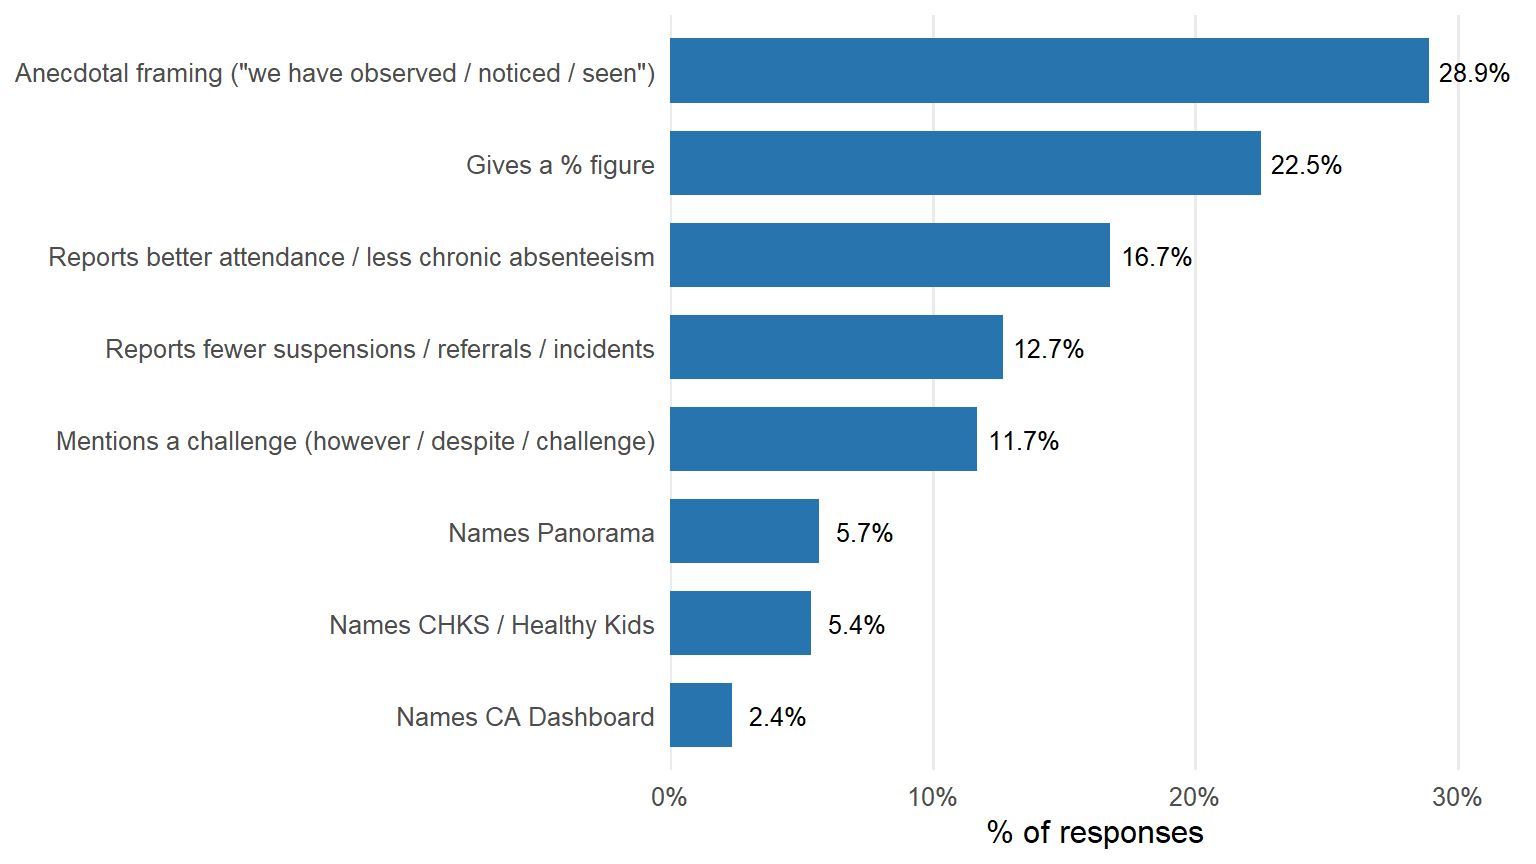
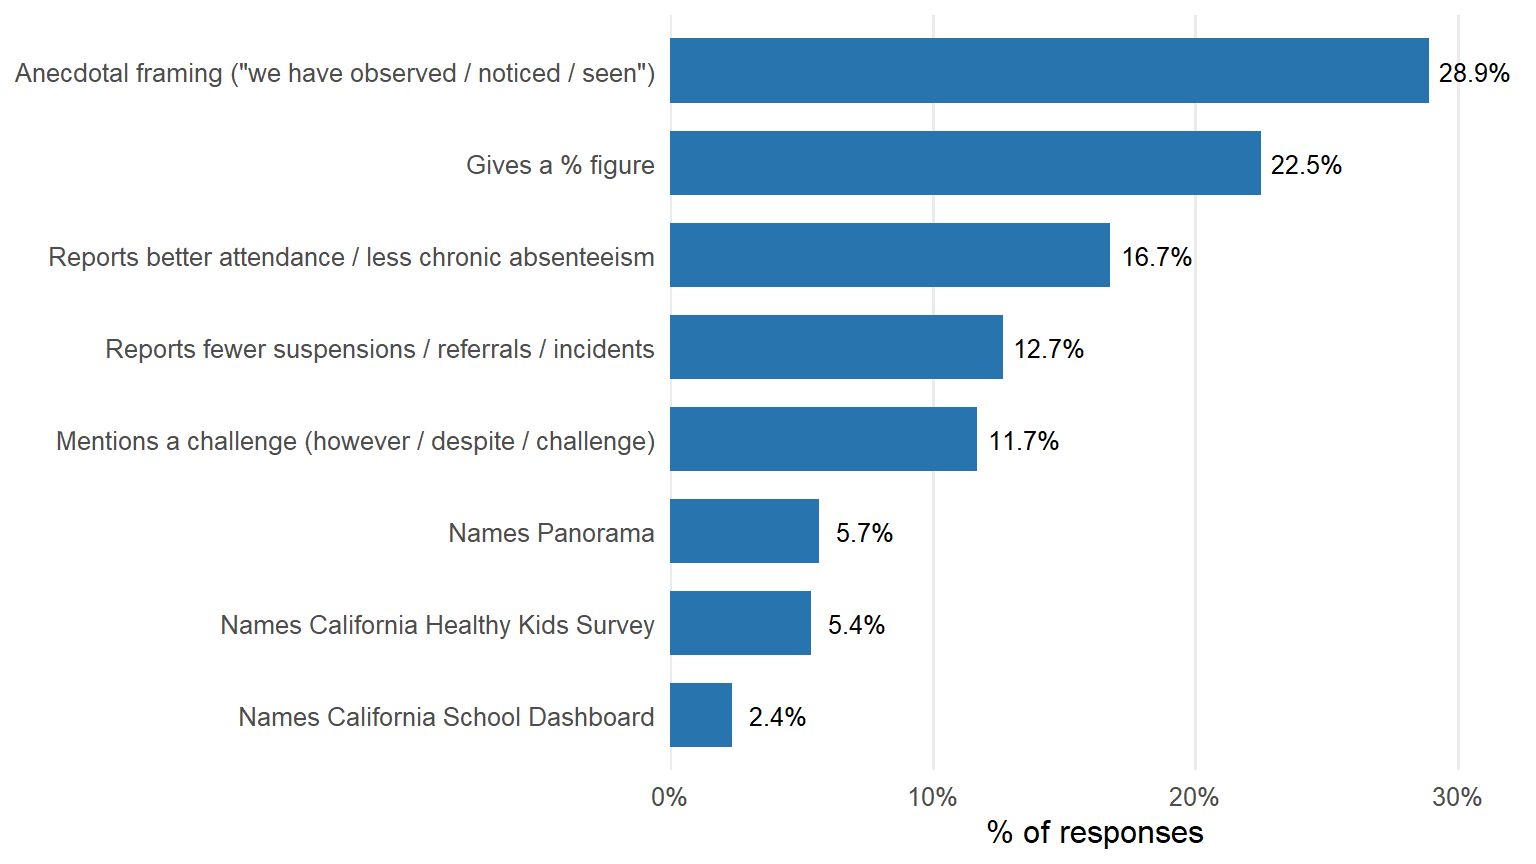
update results

Changed region(s): [[0.125, 0.6875, 0.4375, 0.75], [0.1562, 0.8125, 0.3438, 0.8438]]

diff --git a/docs/school-climate/school-climate-qual.html b/docs/school-climate/school-climate-qual.html
@@ -6,8 +6,8 @@
 
 <meta name="viewport" content="width=device-width, initial-scale=1.0, user-scalable=yes">
 
-<meta name="dcterms.date" content="2026-10-19">
-<meta name="description" content="Word frequencies, themes, and patterns in how CCSPP schools describe climate improvements (QID172).">
+<meta name="dcterms.date" content="2026-10-20">
+<meta name="description" content="Word frequencies, themes, and patterns in how CCSPP schools describe the school climate improvements they have seen.">
 
 <title>Observed Improvements in School Climate</title>
 <style>
@@ -99,6 +99,7 @@ ul.task-list li input[type="checkbox"] {
 
 
 <link rel="stylesheet" href="../styles.css">
+<link rel="stylesheet" href="styles.css">
 </head>
 
 <body class="nav-fixed quarto-light">
@@ -226,7 +227,7 @@ ul.task-list li input[type="checkbox"] {
 
 <div>
   <div class="description">
-    Word frequencies, themes, and patterns in how CCSPP schools describe climate improvements (QID172).
+    Word frequencies, themes, and patterns in how CCSPP schools describe the school climate improvements they have seen.
   </div>
 </div>
 
@@ -237,7 +238,7 @@ ul.task-list li input[type="checkbox"] {
     <div>
     <div class="quarto-title-meta-heading">Published</div>
     <div class="quarto-title-meta-contents">
-      <p class="date">October 19, 2026</p>
+      <p class="date">October 20, 2026</p>
     </div>
   </div>
   
@@ -257,8 +258,15 @@ ul.task-list li input[type="checkbox"] {
 </section>
 <section id="overview" class="level2">
 <h2 class="anchored" data-anchor-id="overview">Overview</h2>
-<p><strong><em>What improvements in school climate have you observed since the implementation of your CCSPP grant that you believe are connected to CCSPP activities? Please describe.</em></strong> <strong>(up to 300 words)</strong></p>
-<p>This page summarizes <strong>1,863 usable responses</strong> from 2,381 schools in the 2025–26 APR. Responses had a median length of 221 words.</p>
+<p>Each year, schools funded by the California Community Schools Partnership Program (CCSPP) complete an Annual Progress Report (APR). The 2025–26 report included two related questions about school climate, meaning how safe, supportive and connected a school feels to students, families and staff:</p>
+<ol type="1">
+<li><strong>The rating question.</strong> Schools rated how much they agree with the statement <em>“Our school climate has improved since we started implementing the CCSPP,”</em> from <em>Strongly disagree</em> to <em>Strongly agree</em>.</li>
+<li><strong>The follow-up question.</strong> Schools that agreed were then asked to explain in their own words, in up to 300 words:</li>
+</ol>
+<blockquote class="blockquote">
+<p><em>What improvements in school climate have you observed since the implementation of your CCSPP grant that you believe are connected to CCSPP activities? Please describe.</em></p>
+</blockquote>
+<p>This page looks at the written answers to the follow-up question. It summarizes <strong>1,863 usable responses</strong> from 2,381 schools in the 2025–26 APR. Responses had a median length of 221 words.</p>
 <div class="callout callout-style-default callout-note callout-titled">
 <div class="callout-header d-flex align-content-center">
 <div class="callout-icon-container">
@@ -269,15 +277,15 @@ ul.task-list li input[type="checkbox"] {
 </div>
 </div>
 <div class="callout-body-container callout-body">
-<p>This question was shown only to schools that answered <strong>Strongly agree</strong> or <strong>Somewhat agree</strong> to <em>“Our school climate has improved”</em>. The 484 schools that were neutral or disagreed did not see the question, so these results describe how schools that saw improvement explain it. They cannot tell us why some schools did not.</p>
+<p>Only schools that chose <strong>Strongly agree</strong> or <strong>Somewhat agree</strong> on the rating question were asked the follow-up question. The 484 schools that were neutral or disagreed did not see the question, so these results describe how schools that saw improvement explain it. They cannot tell us why some schools did not.</p>
 </div>
 </div>
 <section id="key-takeaways" class="level3">
 <h3 class="anchored" data-anchor-id="key-takeaways">Key takeaways</h3>
 <ul>
 <li><strong>Schools mostly describe climate as relationships.</strong> Family engagement (83%), belonging (77%) and student–staff relationships (68%) are the most common themes.</li>
-<li><strong>SEL and mental health supports are the main mechanism named.</strong> “Social emotional” appears in 35% of responses, “mental health” in 21% and “restorative practices” in 16%.</li>
-<li><strong>Few responses give measurable evidence.</strong> Only 22% include a percentage. Named data sources are rare: CHKS 5%, Panorama 6%, CA Dashboard 2%.</li>
+<li><strong>Social-emotional learning (SEL) and mental health supports are the changes schools credit most often.</strong> “Social emotional” appears in 35% of responses, “mental health” in 21% and “restorative practices” in 16%.</li>
+<li><strong>Few responses give measurable evidence.</strong> Only 22% include a percentage, and fewer still name a specific source of data: the California Healthy Kids Survey (5%), Panorama student surveys (6%) or the California School Dashboard (2%).</li>
 <li><strong>Student voice is the least-mentioned theme</strong> (23%), even though it is central to the community schools framework.</li>
 </ul>
 </section>
@@ -291,13 +299,13 @@ ul.task-list li input[type="checkbox"] {
 <div id="tabset-1-1" class="tab-pane active" role="tabpanel" aria-labelledby="tabset-1-1-tab">
 <div class="cell">
 <div class="cell-output-display">
-<div id="fig-wordcloud" class="quarto-float quarto-figure quarto-figure-center anchored" alt="Word cloud of QID172 responses. The largest words are student, family, support, staff, engagement, opportunity, positive, and relationship.">
+<div id="fig-wordcloud" class="quarto-float quarto-figure quarto-figure-center anchored" alt="Word cloud of schools' written responses about climate improvements. The largest words are student, family, support, staff, engagement, opportunity, positive, and relationship.">
 <figure class="quarto-float quarto-float-fig figure">
 <div aria-describedby="fig-wordcloud-caption-0ceaefa1-69ba-4598-a22c-09a6ac19f8ca">
-<img src="school-climate-qual_files/figure-html/fig-wordcloud-1.png" class="img-fluid figure-img" alt="Word cloud of QID172 responses. The largest words are student, family, support, staff, engagement, opportunity, positive, and relationship." width="768">
+<img src="school-climate-qual_files/figure-html/fig-wordcloud-1.png" class="img-fluid figure-img" alt="Word cloud of schools' written responses about climate improvements. The largest words are student, family, support, staff, engagement, opportunity, positive, and relationship." width="768">
 </div>
 <figcaption class="quarto-float-caption-bottom quarto-float-caption quarto-float-fig" id="fig-wordcloud-caption-0ceaefa1-69ba-4598-a22c-09a6ac19f8ca">
-Figure&nbsp;1: Most frequent words in QID172 responses (size = number of mentions).
+Figure&nbsp;1: Most frequent words in schools’ written responses (larger words were used more often).
 </figcaption>
 </figure>
 </div>
@@ -313,7 +321,7 @@ Figure&nbsp;1: Most frequent words in QID172 responses (size = number of mention
 <img src="school-climate-qual_files/figure-html/fig-bigramcloud-1.png" class="img-fluid figure-img" alt="Word cloud of two-word phrases. The largest are family engagement, social emotional, student engagement, and mental health." width="768">
 </div>
 <figcaption class="quarto-float-caption-bottom quarto-float-caption quarto-float-fig" id="fig-bigramcloud-caption-0ceaefa1-69ba-4598-a22c-09a6ac19f8ca">
-Figure&nbsp;2: Most frequent two-word phrases in QID172 responses.
+Figure&nbsp;2: Most frequent two-word phrases in schools’ written responses.
 </figcaption>
 </figure>
 </div>
@@ -406,7 +414,7 @@ Figure&nbsp;4: Share of responses mentioning each theme.
 <div id="tbl-agree" class="cell quarto-float quarto-figure quarto-figure-center anchored">
 <figure class="quarto-float quarto-float-tbl figure">
 <figcaption class="quarto-float-caption-top quarto-float-caption quarto-float-tbl" id="tbl-agree-caption-0ceaefa1-69ba-4598-a22c-09a6ac19f8ca">
-Table&nbsp;3: Theme prevalence by level of agreement on QID171.
+Table&nbsp;3: How often each theme comes up, by how strongly schools agreed that climate improved.
 </figcaption>
 <div aria-describedby="tbl-agree-caption-0ceaefa1-69ba-4598-a22c-09a6ac19f8ca">
 <div class="cell-output-display">
@@ -520,12 +528,12 @@ Table&nbsp;3: Theme prevalence by level of agreement on QID171.
 </section>
 <section id="by-cohort" class="level3">
 <h3 class="anchored" data-anchor-id="by-cohort">By cohort</h3>
-<p>Answering QID172 depended on agreeing that climate improved, so the share of each cohort that answered varies a lot: 85% of Cohort 1 schools, compared with 55% of Cohort 4 schools, where many schools were neutral. Among schools that answered, Cohort 1 schools were the most likely to strongly agree (56%, compared with 26% in Cohort 4).</p>
+<p>Only schools that agreed climate improved were asked to explain, so the share of each cohort that answered varies a lot: 85% of Cohort 1 schools, compared with 55% of Cohort 4 schools, where many schools were neutral. Among schools that answered, Cohort 1 schools were the most likely to strongly agree (56%, compared with 26% in Cohort 4).</p>
 <div class="cell">
 <div id="tbl-cohort" class="cell quarto-float quarto-figure quarto-figure-center anchored">
 <figure class="quarto-float quarto-float-tbl figure">
 <figcaption class="quarto-float-caption-top quarto-float-caption quarto-float-tbl" id="tbl-cohort-caption-0ceaefa1-69ba-4598-a22c-09a6ac19f8ca">
-Table&nbsp;4: Who answered QID172, by cohort.
+Table&nbsp;4: How many schools in each cohort gave a written explanation.
 </figcaption>
 <div aria-describedby="tbl-cohort-caption-0ceaefa1-69ba-4598-a22c-09a6ac19f8ca">
 <div class="cell-output-display">
@@ -533,17 +541,17 @@ Table&nbsp;4: Who answered QID172, by cohort.
 <colgroup>
 <col style="width: 7%">
 <col style="width: 6%">
+<col style="width: 20%">
+<col style="width: 15%">
 <col style="width: 19%">
-<col style="width: 19%">
-<col style="width: 18%">
-<col style="width: 28%">
+<col style="width: 29%">
 </colgroup>
 <thead>
 <tr class="header">
 <th style="text-align: left;">Cohort</th>
 <th style="text-align: right;">Schools</th>
 <th style="text-align: right;">Agreed climate improved</th>
-<th style="text-align: right;">Usable QID172 responses</th>
+<th style="text-align: right;">Written responses</th>
 <th style="text-align: right;">% of cohort answering</th>
 <th style="text-align: right;">% of responders strongly agreeing</th>
 </tr>
@@ -625,7 +633,7 @@ Figure&nbsp;6: Theme prevalence by region (% of that region’s responses).
 </section>
 <section id="in-schools-own-words" class="level2">
 <h2 class="anchored" data-anchor-id="in-schools-own-words">In schools’ own words</h2>
-<p>These excerpts are copied word for word from QID172 responses and show what the most common themes look like in practice. Each one is checked against the data when the page renders (see <a href="#methods">Methods</a>). To protect privacy, quotes are labeled by cohort, region and QID171 rating only.</p>
+<p>These excerpts are copied word for word from schools’ written responses and show what the most common themes look like in practice. Each one is checked against the data when the page renders (see <a href="#methods">Methods</a>). To protect privacy, quotes are labeled only by cohort, region and how strongly the school agreed that climate improved.</p>
 <section id="family-engagement" class="level3">
 <h3 class="anchored" data-anchor-id="family-engagement">Family engagement</h3>
 <blockquote class="blockquote">
@@ -742,20 +750,20 @@ Figure&nbsp;7: Share of responses with each type of evidence.
 <ul>
 <li><strong>Keyword coding, not human coding.</strong> Themes are flagged by keyword patterns. They are a transparent first pass and will miss paraphrases and include some false matches.</li>
 <li><strong>Only agreeing schools answered.</strong> See the note in the <a href="#overview">Overview</a>.</li>
-<li><strong>Copied text.</strong> 119 responses (6.4%) exactly match another school’s text across 36 groups, usually district-level boilerplate. They are included here; setting drop_duplicates &lt;- TRUE removes them.</li>
-<li><strong>Cohort 4 is underrepresented.</strong> Only about half of Cohort 4 schools answered QID172, because many were neutral on QID171. Cohort 4 results describe the schools that already see improvement.</li>
+<li><strong>Copied text.</strong> 119 responses (6.4%) exactly match another school’s text across 36 groups, usually because a district submitted the same text for several of its schools. They are included in the results on this page.</li>
+<li><strong>Cohort 4 is underrepresented.</strong> Only about half of Cohort 4 schools gave a written explanation, because many chose <em>Neither agree nor disagree</em> on the rating question and were not asked to explain. Cohort 4 results describe the schools that already see improvement.</li>
 </ul>
 </div>
 </div>
 </div>
 <p><strong>Processing steps</strong></p>
 <ol type="1">
-<li>Loaded the APR 2025–26 export through the shared prep script (<code>00-prepare-climate-data.R</code>), the same data used on the School Climate dashboard, keeping the 2,381 schools with a valid cohort, region and CDS code.</li>
+<li>Used the same 2025–26 APR data as the School Climate dashboard: the 2,381 schools with a valid cohort, region and state school code (CDS code).</li>
 <li>Dropped blank and placeholder answers (e.g., “N/A”).</li>
-<li>Tokenized with <code>tidytext</code>, removed standard English stop words plus words that echo the prompt, and merged common singular/plural forms.</li>
+<li>Split each response into individual words, then removed common filler words (such as <em>the</em> and <em>and</em>) and words that simply repeat the question (such as <em>school</em> and <em>climate</em>). Singular and plural forms were combined (for example, <em>student</em> and <em>students</em>).</li>
 <li>Counted each word and two-word phrase, both total mentions and the number of responses using it.</li>
 <li>Flagged themes and evidence types using the keyword patterns below.</li>
-<li>Selected example quotes by hand from responses that match each theme, leaving out copied (duplicate) responses and sentences that name a school. Each excerpt is stored with its Qualtrics ResponseId, and the page will not render unless every excerpt appears word for word in that response.</li>
+<li>Selected example quotes by hand from responses that match each theme, leaving out copied (duplicate) responses and sentences that name a school. Each excerpt is linked to the survey response it came from, and the page will not build unless every excerpt appears word for word in that response.</li>
 </ol>
 <div class="cell">
 <div id="tbl-codebook" class="cell quarto-float quarto-figure quarto-figure-center anchored">
@@ -773,7 +781,7 @@ Table&nbsp;5: Theme keyword patterns.
 <thead>
 <tr class="header">
 <th style="text-align: left;">Theme</th>
-<th style="text-align: left;">Keyword pattern (regex)</th>
+<th style="text-align: left;">Keywords searched for</th>
 </tr>
 </thead>
 <tbody>
